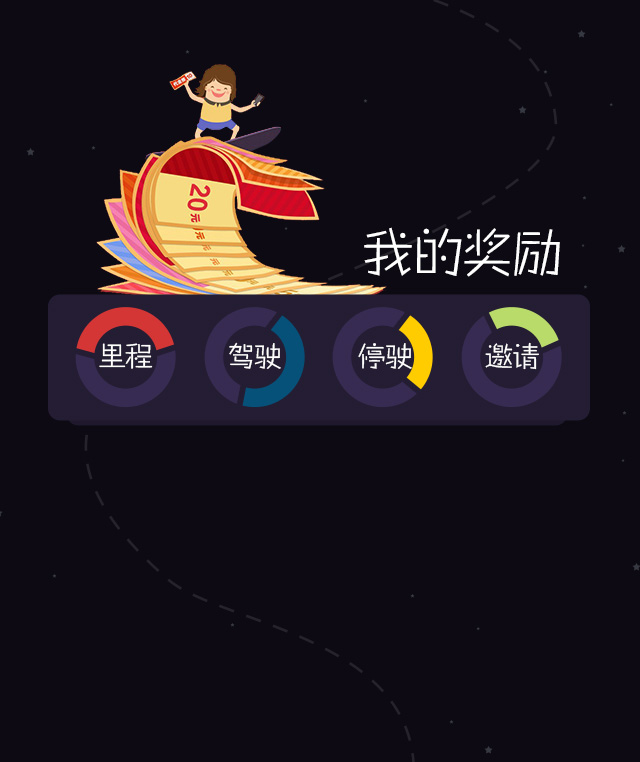
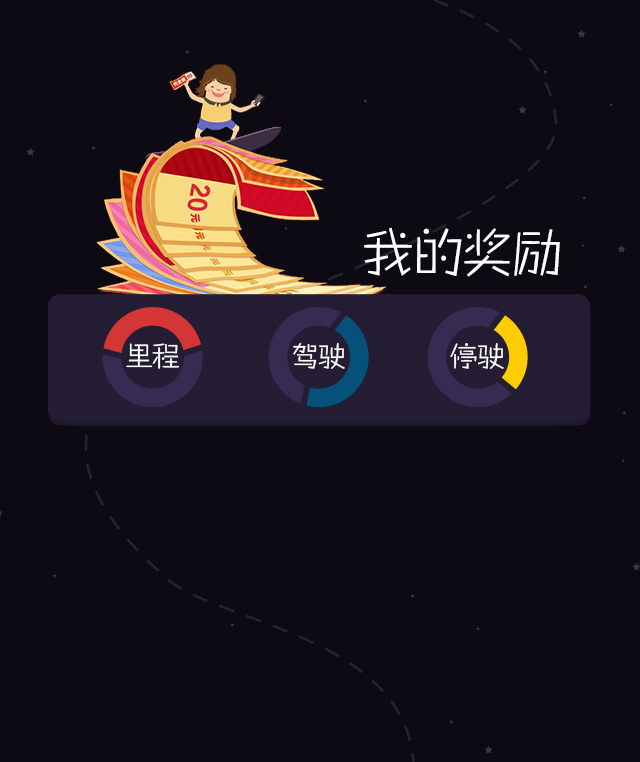
分享APP 修改

Changed region(s): [[0.0938, 0.3924, 0.875, 0.5433], [0.875, 0.5433, 0.9062, 0.5735]]

diff --git a/cz-app/czapp-dist/css/style.css b/cz-app/czapp-dist/css/style.css
@@ -1,4 +1,4 @@
-/*! @czapp Date: 2015-05-21, 12:06:26 PM */
+/*! @czapp Date: 2015-08-06, 11:16:59 AM */
 /**
 *
 * 变量
@@ -988,13 +988,13 @@ i {
   background-size: cover;
 }
 .m-page7 .tit-con {
-  top: 9.25rem;
+  top: 13rem;
 }
 .m-page7 .img1 {
   background-image: url(../img/page7-1.jpg);
   background-repeat: no-repeat;
   width: 100%;
-  height: 10.075rem;
+  height: 13.425rem;
   background-size: cover;
 }
 .m-page7 .img2 {
@@ -1013,7 +1013,7 @@ i {
   height: 2.075rem;
   background-size: cover;
   position: absolute;
-  top: 16rem;
+  top: 19.25rem;
   left: 4.5rem;
 }
 .arrow {

diff --git a/cz-app/czapp-dist/index.html b/cz-app/czapp-dist/index.html
@@ -59,7 +59,7 @@
                     <div class="t-tit"><b>56489</b>个挣点</div>
                     <div class="a-tit mt20">您总共有<b></b>56489个挣点，总共<b>564.89</b>元，</div>
                     <div class="a-tit">里程奖励<b>14122</b>个挣点！驾驶奖励<b>14122</b>个挣点！</div>
-                    <div class="a-tit">停驶奖励<b>14122</b>个挣点！邀请奖励<b>14122</b>个挣点！</div>
+                    <div class="a-tit">停驶奖励<b>14122</b>个挣点</div>
                 </div>
             </arction>
         </section>

diff --git a/cz-app/src/page/view/index.html b/cz-app/src/page/view/index.html
@@ -53,7 +53,7 @@
 					<div class="t-tit"><b>56489</b>个挣点</div>
 					<div class="a-tit mt20">您总共有<b></b>56489个挣点，总共<b>564.89</b>元，</div>
 					<div class="a-tit">里程奖励<b>14122</b>个挣点！驾驶奖励<b>14122</b>个挣点！</div>
-					<div class="a-tit">停驶奖励<b>14122</b>个挣点！邀请奖励<b>14122</b>个挣点！</div>
+					<div class="a-tit">停驶奖励<b>14122</b>个挣点</div>
 				</div>
 			</arction>
 		</section>

diff --git a/cz-app/Gruntfile.js b/cz-app/Gruntfile.js
@@ -44,7 +44,7 @@ module.exports = function(grunt) {
             connect: {
                 options: {
                     port: 8000,
-                    hostname: '192.168.1.42', 
+                    hostname: '192.168.1.52', 
                     livereload: 35729 
                 },
                 server: {
